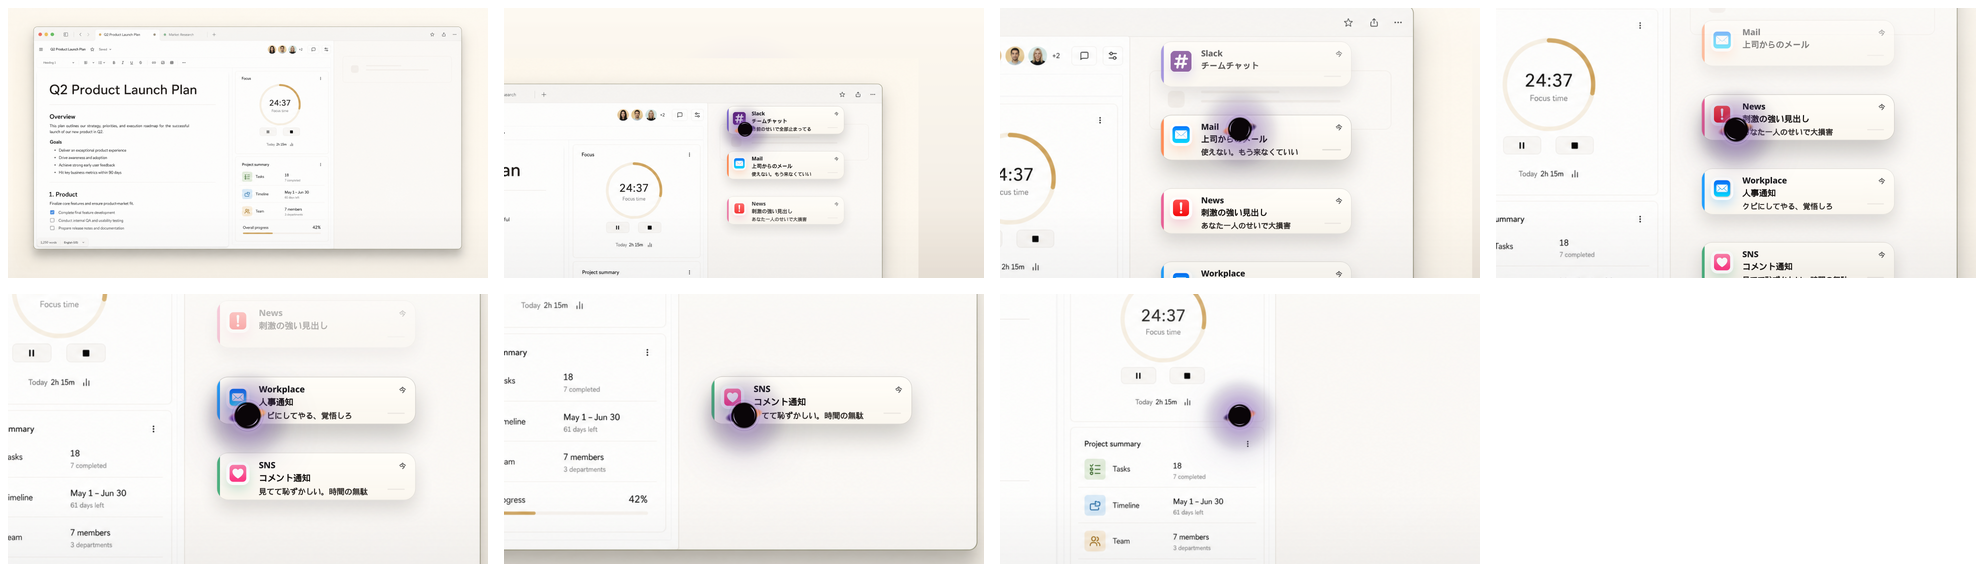
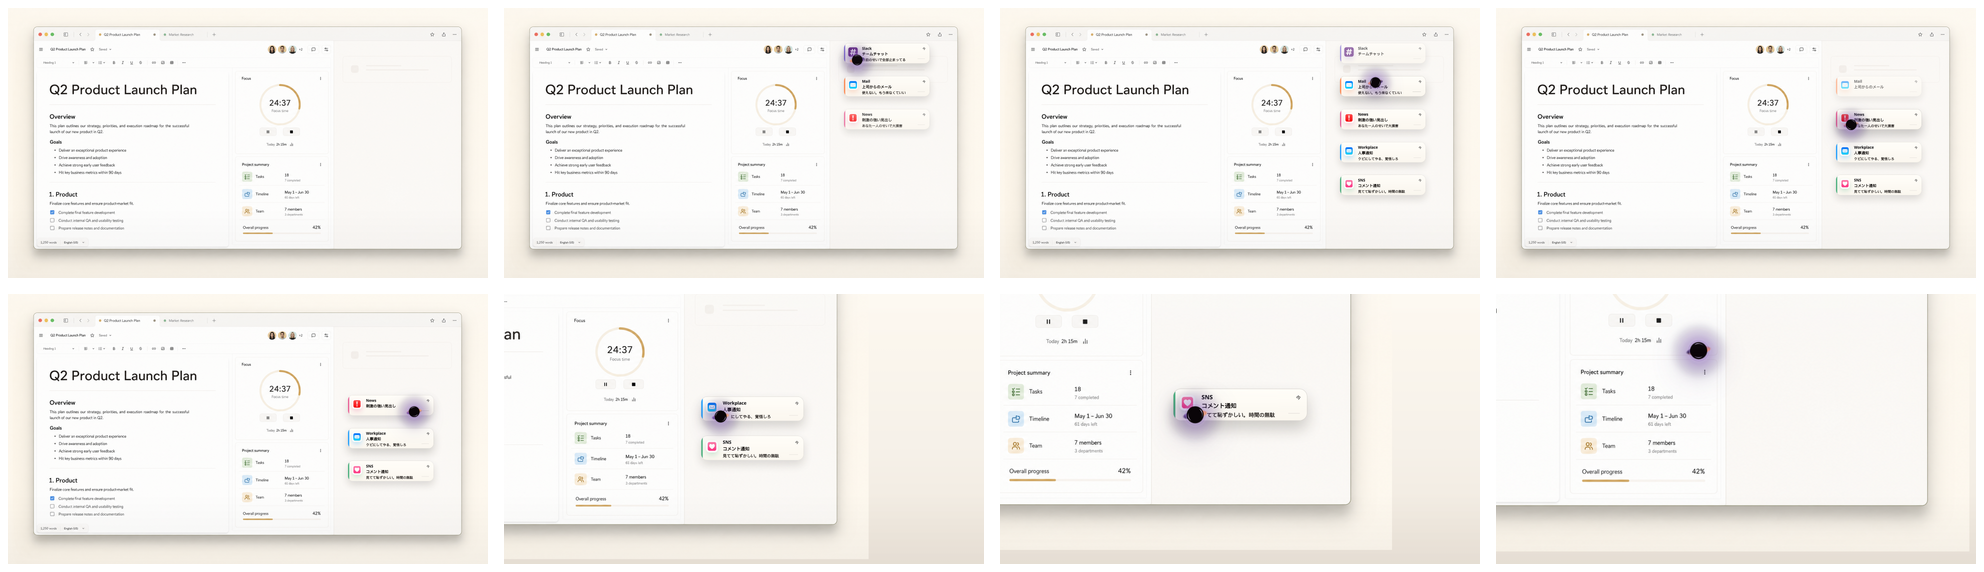
Render ultra quality PV output

diff --git a/src/compositions/blackhole-pv/scenes/S06Notification.tsx b/src/compositions/blackhole-pv/scenes/S06Notification.tsx
@@ -810,20 +810,53 @@ export const S06Notification: React.FC = () => {
 
 	const entryScale = Math.max(0, Math.min(1.1, bhEnterRaw));
 	const bhScale = entryScale + absorbPulse;
-	const cameraScale = interpolate(frame, [0, 22, 42, 164, 180], [1, 1.08, 2.22, 2.34, 2.08], {
-		extrapolateLeft: "clamp",
-		extrapolateRight: "clamp",
-		easing: easeInOutSmooth,
-	});
-	const cameraFollow = interpolate(frame, [12, 38], [0, 1], {
+	const zoomStart = notifications[3].absorb - 4;
+	const cameraScale = interpolate(
+		frame,
+		frameRange(0, zoomStart, zoomStart + 36, 164, 180),
+		[1, 1, 1.56, 1.68, 1.58],
+		{
+			extrapolateLeft: "clamp",
+			extrapolateRight: "clamp",
+			easing: easeInOutSmooth,
+		},
+	);
+	const cameraFollow = interpolate(frame, frameRange(zoomStart, zoomStart + 34), [0, 1], {
 		extrapolateLeft: "clamp",
 		extrapolateRight: "clamp",
 		easing: easeOutSoft,
 	});
 	const cameraTargetX = 960;
 	const cameraTargetY = 486;
-	const cameraX = (cameraTargetX - bhX * cameraScale) * cameraFollow;
-	const cameraY = (cameraTargetY - bhY * cameraScale) * cameraFollow;
+	const smoothBhX = interpolate(
+		frame,
+		frameRange(zoomStart, notifications[3].absorb + SWEEP_FRAMES, notifications[4].absorb + SWEEP_FRAMES, 180),
+		[
+			notifications[3].x * designW + cardW * 0.48,
+			notifications[3].x * designW + cardW * 0.56,
+			notifications[4].x * designW + cardW * 0.54,
+			designW * 0.7,
+		],
+		{
+			extrapolateLeft: "clamp",
+			extrapolateRight: "clamp",
+			easing: easeInOutSmooth,
+		},
+	);
+	const smoothBhY = interpolate(
+		frame,
+		frameRange(zoomStart, notifications[3].absorb + SWEEP_FRAMES, notifications[4].absorb + 10, 180),
+		[touchYs[3] - 8, touchYs[3] + 8, touchYs[4] + 4, touchYs[4] + 24],
+		{
+			extrapolateLeft: "clamp",
+			extrapolateRight: "clamp",
+			easing: easeInOutSmooth,
+		},
+	);
+	const inertialFocusX = smoothBhX * 0.86 + bhX * 0.14;
+	const inertialFocusY = smoothBhY * 0.88 + bhY * 0.12;
+	const cameraX = (cameraTargetX - inertialFocusX * cameraScale) * cameraFollow;
+	const cameraY = (cameraTargetY - inertialFocusY * cameraScale) * cameraFollow;
 
 	return (
 		<AbsoluteFill

diff --git a/src/compositions/blackhole-pv/scenes/S08News.tsx b/src/compositions/blackhole-pv/scenes/S08News.tsx
@@ -14,7 +14,7 @@ import {usePvCurrentFrame as useCurrentFrame, usePvVideoConfig as useVideoConfig
 const ink = "#15120f";
 const FEATURE_LEFT = 926;
 const FEATURE_TOP = 268;
-const FEATURE_WIDTH = 820;
+const FEATURE_WIDTH = 900;
 const FEATURE_ROW_GAP = 216;
 
 const clamp = {
@@ -27,10 +27,10 @@ const easeInOutSmooth = Easing.bezier(0.65, 0, 0.35, 1);
 const easeInFast = Easing.bezier(0.7, 0, 0.84, 0);
 
 const headlines = [
-	{title: "大手IT企業、突然の大量解雇", start: 18, bandWidth: 458},
-	{title: '年収1000万でも"貧困"の現実', start: 40, bandWidth: 500},
-	{title: 'Z世代が"静かに辞める"本当の理由', start: 62, bandWidth: 560},
-	{title: "AIに奪われる仕事ランキング最新版", start: 84, bandWidth: 560},
+	{title: "大手IT企業、突然の大量解雇", start: 18},
+	{title: '年収1000万でも"貧困"の現実', start: 40},
+	{title: 'Z世代が"静かに辞める"本当の理由', start: 62},
+	{title: "AIに奪われる仕事ランキング最新版", start: 84},
 ];
 
 const safeRange = (values: number[]) => {
@@ -94,8 +94,7 @@ const AbsorbingHeadline: React.FC<{
 	title: string;
 	frame: number;
 	start: number;
-	bandWidth: number;
-}> = ({title, frame, start, bandWidth}) => {
+}> = ({title, frame, start}) => {
 	const end = start + 16;
 	const wipe = interpolate(frame, safeRange([start, end]), [0, FEATURE_WIDTH], {
 		...clamp,
@@ -120,25 +119,11 @@ const AbsorbingHeadline: React.FC<{
 			<div
 				style={{
 					position: "absolute",
-					left: Math.max(0, bandWidth + 12),
-					top: -2,
-					width: Math.max(0, FEATURE_WIDTH - bandWidth - 12),
-					height: 58,
-					background: "rgba(255,255,255,0.98)",
-					filter: "blur(0.2px)",
-				}}
-			/>
-			<div
-				style={{
-					position: "absolute",
-					left: -7,
-					top: 7,
-					width: bandWidth + 14,
-					height: 33,
-					borderRadius: 6,
-					background:
-						"linear-gradient(90deg, rgba(226,226,226,0.56), rgba(219,219,219,0.42) 86%, rgba(219,219,219,0.08))",
-					filter: "blur(0.45px)",
+					left: -10,
+					top: -10,
+					width: FEATURE_WIDTH + 34,
+					height: 72,
+					background: "#FFFFFF",
 				}}
 			/>
 			<div
@@ -151,11 +136,18 @@ const AbsorbingHeadline: React.FC<{
 			>
 				<div
 					style={{
-						width: FEATURE_WIDTH,
+						display: "inline-block",
+						width: "max-content",
+						maxWidth: FEATURE_WIDTH,
+						height: 44,
+						padding: "0 5px 0 0",
+						borderRadius: 5,
+						background:
+							"linear-gradient(90deg, rgba(225,225,225,0.72), rgba(219,219,219,0.58))",
 						fontFamily: FONTS.japanese,
 						fontSize: 34,
 						fontWeight: 900,
-						lineHeight: "46px",
+						lineHeight: "44px",
 						letterSpacing: 0,
 						color: ink,
 						whiteSpace: "nowrap",
@@ -234,7 +226,6 @@ export const S8News: React.FC = () => {
 						title={item.title}
 						frame={frame}
 						start={item.start}
-						bandWidth={item.bandWidth}
 					/>
 				</div>
 			))}

diff --git a/tasks/finish-blackhole-pv/plan.md b/tasks/finish-blackhole-pv/plan.md
@@ -738,7 +738,7 @@ npm run studio:pv
 - [x] `npm run typecheck` を通す。
 - [x] S06/S08/S09 の contact sheet を作って確認する。
 - [x] Studio を再起動する。
-- [ ] commit / push する。
+- [x] commit / push する。
 
 ### Review
 
@@ -747,3 +747,52 @@ npm run studio:pv
 - S09確認シート: `tasks/finish-blackhole-pv/frame-review/latest/s09-contact.png`。
 - S09生成素材一覧: `tasks/finish-blackhole-pv/generated-prompts/s09-object-assets-contact.png`。
 - Remotion Studio を `http://localhost:3001` で再起動した。
+
+## 2026-05-11 S06/S08追加修正
+
+### 方針
+
+- S06は通知3件までは通常カメラ、4件目からズーム追従にする。
+- S06の追従はBHへ完全ロックせず、滑らかな補間軌道を主に使い、BHの実座標を少量だけ混ぜる。
+- S08は固定幅の帯をやめ、テキスト要素自身に背景帯を持たせる。文字と帯を同じレイアウト幅にしてズレをなくす。
+- S08は文字幅外と右端の生成画像プレースホルダー線が見えないように、見出しレーンの白マスクを広げる。
+
+### Todo
+
+- [x] S06のズーム開始を4件目の通知直前へ後ろ倒しする。
+- [x] S06のズーム到達時間を伸ばし、慣性のある追従にする。
+- [x] S08の固定幅帯を、テキスト幅に追従する inline 背景へ変更する。
+- [x] S08の見出しレーンマスクを広げ、右端の背景帯を隠す。
+- [x] `npm run typecheck` を通す。
+- [x] S06/S08 の contact sheet を再作成して確認する。
+- [x] Studio を再起動する。
+- [x] commit / push する。
+
+### Review
+
+- S06確認シート: `tasks/finish-blackhole-pv/frame-review/latest/s06-contact.png`。
+- S08確認シート: `tasks/finish-blackhole-pv/frame-review/latest/s08-contact.png`。
+- S06は4件目からズームし、滑らかな補間軌道でBHを追う形にした。
+- S08は見出し帯がテキスト自身の背景になり、右端の生成画像プレースホルダー線もマスクで隠した。
+- Remotion Studio を `http://localhost:3001` で再起動した。
+
+## 2026-05-11 超高画質書き出し
+
+### 方針
+
+- レビュー速度を維持した60fps版 `BlackHolePV60` を使う。
+- 高画質MP4として `CRF 8` で書き出す。
+- 生成MP4は `.gitignore` 対象のためGitHubには含めず、再現用scriptを `package.json` に追加する。
+
+### Todo
+
+- [x] Studioを停止してレンダー負荷を下げる。
+- [x] `out/blackhole-pv-60fps-ultra.mp4` を書き出す。
+- [x] `render:pv60:ultra` scriptを追加する。
+- [x] 変更を commit / push する。
+
+### Review
+
+- 出力: `out/blackhole-pv-60fps-ultra.mp4`。
+- サイズ: 約32MB。
+- 設定: `BlackHolePV60`, `1920x1080`, `60fps`, `h264`, `CRF 8`。

diff --git a/tasks/finish-blackhole-pv/research.md b/tasks/finish-blackhole-pv/research.md
@@ -375,3 +375,23 @@ The finished state should satisfy:
 - S06は背景・通知・BHを同一カメラレイヤーに入れ、BH位置を画面中央へ寄せる `cameraScale` / `cameraX` / `cameraY` を追加した。
 - S08は各見出しに `bandWidth` を持たせ、文字幅以降の長いプレースホルダー線を白いマスクで消す構成にした。
 - S09は36素材を追加生成し、既存12素材と合わせて48素材にした。全素材を透過PNG化し、最後まで順次吸い込まれるよう `objectAssets` からターゲットを生成する実装にした。
+
+追加対応:
+
+- S06はズーム開始を4件目の通知直前へ後ろ倒しした。3件目までは通常カメラで消し、4件目以降だけカメラがBHを追う。
+- 追加レビューでS06の追従がBHに張り付きすぎて見える問題が残ったため、カメラはBH実座標を直接追わず、滑らかな補間軌道を主成分にして実BH座標を少量だけ混ぜる構成へ変更した。
+- S06のズーム到達時間を伸ばし、4件目から5件目へゆっくり視線を運ぶ Apple PV 的な慣性追従へ寄せた。
+- S08は固定pxの `bandWidth` を廃止し、見出しテキスト要素自身に背景帯を持たせた。これで文字と帯が同じレイアウト幅になり、固定値ズレを避けられる。
+- S08は右端の生成画像プレースホルダー線が残らないよう、見出しレーンのマスク幅を広げた。
+
+## 2026-05-11 render research: ultra MP4
+
+ユーザー指示:
+
+- 超高画質で書き出す。
+
+対応:
+
+- `BlackHolePV60` を `out/blackhole-pv-60fps-ultra.mp4` に書き出した。
+- コマンドは `npx remotion render src/index.ts BlackHolePV60 out/blackhole-pv-60fps-ultra.mp4 --crf=8 --concurrency=4`。
+- 出力は約32MB。`.gitignore` で `*.mp4` が除外されているため、GitHubには動画本体ではなく再現用の `render:pv60:ultra` scriptを追加する。

diff --git a/tasks/lessons.md b/tasks/lessons.md
@@ -19,3 +19,6 @@
 - ユーザーが「オブジェクト単位で吸ってほしい」と言った場合、Webページ全体や大きなカード画像を素材にしない。テキスト片、サムネ、通知、コメント、バナーなどを個別透過PNGとして生成し、それぞれを独立した吸収ターゲットにする。
 - ユーザーがレビュー上のシーン番号を訂正したら、触りかけた誤対象ファイルを即戻してから正しいシーンへ移る。今回の「S05ではなくS06」のようなケースでは、S05のプレースホルダーを復元し、S06通知シーンだけにズーム追従を入れる。
 - 生成画像背景に元からあるプレースホルダー線へ文字を重ねると、文字幅より右の線が残ってズレに見える。文字幅以降を白マスクで消し、必要な帯だけをRemotion側で描く。
+- 既にページやカードの出現アニメーションがあるシーンへカメラズームを足すと、二段ズームに見えやすい。S06のような通知シーンでは、前半は通常カメラ、後半だけズーム追従に分ける。
+- BHを追うカメラは、BHの実座標に直接ロックすると酔いやすい。滑らかな補間軌道を主にして、実座標は少量だけ混ぜると「追っている」感と見やすさを両立しやすい。
+- 文字の背景帯をピッタリ合わせたい場合、固定px幅の別要素にしない。テキスト要素自身の背景として描き、吸収時も同じclip内で消す。